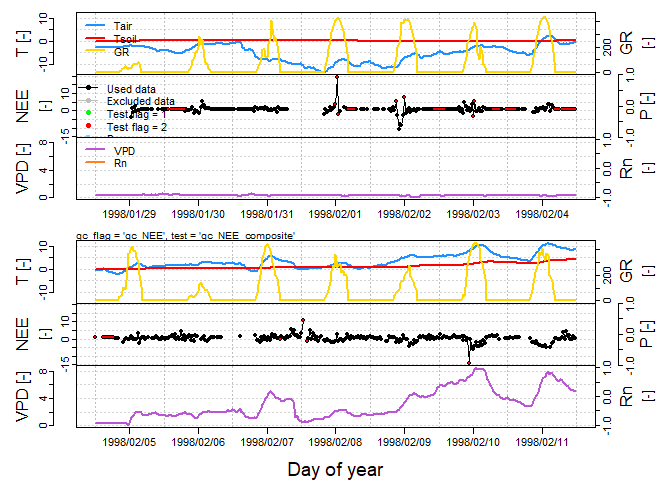
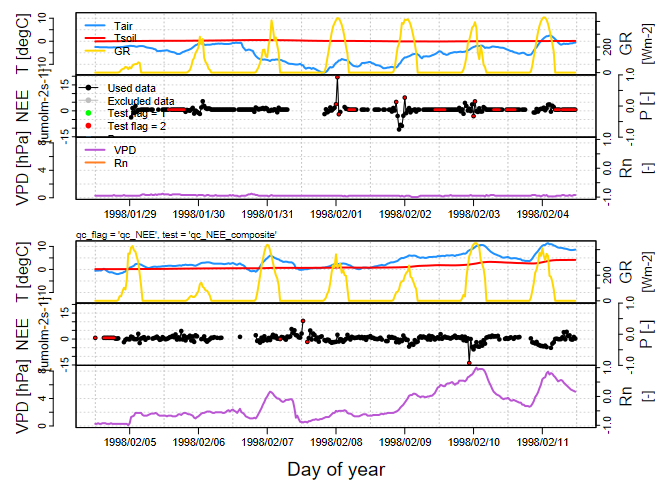
correct and update README

diff --git a/README.md b/README.md
@@ -59,9 +59,6 @@ library(openeddy)
 #> The following objects are masked from 'package:base':
 #> 
 #>     units, units<-
-```
-
-``` r
 library(REddyProc)
 library(ggplot2)
 ```
@@ -71,7 +68,7 @@ extracted from raw data or quality control (QC) flags. Notice that units
 are included.
 
 ``` r
-data(Example_DETha98)
+data(Example_DETha98, package = "REddyProc")
 str(Example_DETha98[1:4])
 #> 'data.frame':    17520 obs. of  4 variables:
 #>  $ Year: int  1998 1998 1998 1998 1998 1998 1998 1998 1998 1998 ...
@@ -86,9 +83,6 @@ str(Example_DETha98[1:4])
 #>  $ NEE : num  -1.21 1.72 NA NA 2.55 NA NA NA 4.11 NA ...
 #>   ..- attr(*, "varnames")= chr "NEE"
 #>   ..- attr(*, "units")= chr "umolm-2s-1"
-```
-
-``` r
 DETha98 <- fConvertTimeToPosix(Example_DETha98, 'YDH', 
                                Year = 'Year', Day = 'DoY', Hour = 'Hour')
 #> Converted time format 'YDH' to POSIX with column name 'DateTime'.
@@ -109,16 +103,18 @@ DETha98$qc_NEE <- ifelse(is.na(DETha98$NEE), NA, 0)
 Application of three general filters is presented.
 
 1.  Low covariance between vertical wind component and CO<sub>2</sub>
-    concentration ((CO<sub>2</sub>)) can be caused by frozen ultrasonic
+    concentration (CO<sub>2</sub>) can be caused by frozen ultrasonic
     anemometer or problems with (CO<sub>2</sub>) measurements. Such
-    cases are flagged and saved to qc_NEE_lowcov.
+    cases are flagged and saved to `qc_NEE_lowcov` filter.
 2.  Runs with repeating values are a sign of malfunctioning equipment
-    (qc_NEE_runs).
-3.  Spikes in low frequency data cause problems during gap-filling and
-    should be excluded. Since DETha98 was already quality checked, the
-    amount of detected spikes is limited. In order to correctly evaluate
-    spikes, preliminary QC (qc_NEE_prelim) that combines available QC
-    tests or filters should be produced and used in `despikeLF`.
+    (`qc_NEE_runs`).
+3.  Spikes in low frequency data (`qc_NEE_spikesLF`) cause problems
+    during gap-filling and should be excluded. Since DETha98 was already
+    quality checked, the amount of detected spikes is limited. In order
+    to correctly evaluate spikes, preliminary QC (`qc_NEE_prelim`) that
+    combines available QC tests or filters should be produced and used
+    in `despikeLF()`. For simplification, daytime is not distinguished
+    from nighttime here (`despikeLF(..., light = NULL)`).
 
 ``` r
 DETha98$qc_NEE_lowcov <- 
@@ -128,27 +124,18 @@ summary_QC(DETha98, "qc_NEE_lowcov")
 #>                QC_flag
 #> QC_filter       flag_0 flag_2 flag_NA
 #>   qc_NEE_lowcov   64.2    0.1    35.7
-```
-
-``` r
 DETha98$qc_NEE_runs <- flag_runs(DETha98$NEE, "qc_NEE_runs")
 summary_QC(DETha98, "qc_NEE_runs")
 #> no columns with 'na.as = 0' detected
 #>              QC_flag
 #> QC_filter     flag_0 flag_2 flag_NA
 #>   qc_NEE_runs   63.9    0.3    35.7
-```
-
-``` r
 DETha98$qc_NEE_prelim <- 
   combn_QC(DETha98, 
            c("qc_NEE", "qc_NEE_lowcov", "qc_NEE_runs"), 
            "qc_NEE_prelim")
 #> no columns with additive effect detected
 #> no columns with 'na.as = 0' detected
-```
-
-``` r
 DETha98$qc_NEE_spikesLF <- 
   despikeLF(DETha98, "NEE", "qc_NEE_prelim", "qc_NEE_spikesLF", 
             light = NULL)
@@ -156,9 +143,6 @@ DETha98$qc_NEE_spikesLF <-
 #> iter 2: 2
 #> iter 3: 0
 #> Further iterations omitted
-```
-
-``` r
 summary_QC(DETha98, "qc_NEE_spikesLF")
 #> detected columns with 'na.as = 0': qc_NEE_spikesLF
 #>                  QC_flag
@@ -167,7 +151,7 @@ summary_QC(DETha98, "qc_NEE_spikesLF")
 ```
 
 The QC results can be summarized in tabular or graphical form using
-`summary_QC`. It is possible to summarize each filter independently or
+`summary_QC()`. It is possible to summarize each filter independently or
 summarize the cumulative effect of applied filters. Note that the
 fraction of flagged records in this example is negligible as DETha98
 data set was already quality checked.
@@ -182,9 +166,6 @@ summary_QC(DETha98,
 #>   qc_NEE_lowcov     64.2    0.1    35.7
 #>   qc_NEE_runs       63.9    0.3    35.7
 #>   qc_NEE_spikesLF   99.8    0.2     0.0
-```
-
-``` r
 summary_QC(DETha98, 
            c("qc_NEE", "qc_NEE_lowcov", "qc_NEE_runs", "qc_NEE_spikesLF"),
            cumul = TRUE, plot = TRUE, flux = "NEE")
@@ -196,7 +177,7 @@ summary_QC(DETha98,
 
 Although individual QC columns should be stored as they are useful to
 distinguish the reason why certain records were excluded, only the
-combined QC column (qc_NEE_composite) is usually used in further data
+combined QC column (`qc_NEE_composite`) is usually used in further data
 processing and analysis.
 
 ``` r
@@ -208,46 +189,28 @@ DETha98$qc_NEE_composite <-
 #> detected columns with 'na.as = 0': qc_NEE_spikesLF
 ```
 
-Function `plot_eddy` is useful for visualization of the whole dataset
+Function `plot_eddy()` is useful for visualization of the whole dataset
 including flux values, its respective QC flags and the most important
-micrometeorological parameters in monthly and weekly time resolution.
-Only a two week subset is presented here to limit the extent of output.
-
-``` r
-DETha98[, c("P", "PAR", "Rn")] <- NA
-(varnames <- varnames(DETha98))
-#>  [1] "DateTime"         "Year"             "DoY"              "Hour"            
-#>  [5] "NEE"              "LE"               "H"                "Rg"              
-#>  [9] "Tair"             "Tsoil"            "rH"               "VPD"             
-#> [13] "Ustar"            "-"                "qc_NEE_lowcov"    "qc_NEE_runs"     
-#> [17] "qc_NEE_prelim"    "qc_NEE_spikesLF"  "qc_NEE_composite" "-"               
-#> [21] "-"                "-"
-```
-
-``` r
-(units <- openeddy::units(DETha98))
-#>  [1] "POSIXDate Time" "-"              "-"              "-"             
-#>  [5] "umolm-2s-1"     "Wm-2"           "Wm-2"           "Wm-2"          
-#>  [9] "degC"           "degC"           "%"              "hPa"           
-#> [13] "ms-1"           "-"              "-"              "-"             
-#> [17] "-"              "-"              "-"              "-"             
-#> [21] "-"              "-"
-```
+meteorological parameters in monthly and weekly time resolution. Only a
+two week subset is presented here to limit the extent of output.
 
 ``` r
 sub <- DETha98$DoY >= 29 & DETha98$DoY < 43
-DETha98_sub <- DETha98[sub, ]
-openeddy::units(DETha98) <- units
-plot_eddy(DETha98_sub, "NEE", "qc_NEE", "qc_NEE_composite", skip = "monthly",
-          light = "GR")
+DETha98_sub <- ex(DETha98, sub)
+plot_eddy(DETha98_sub, "NEE", "qc_NEE", "qc_NEE_composite", 
+          skip = "monthly", light = "GR")
+#> Column 'Rn' not found in 'x'
+#> Respective column 'Rn' initialized with NA values
+#> Column 'P' not found in 'x'
+#> Respective column 'P' initialized with NA values
 ```
 
 <img src="man/figures/README-unnamed-chunk-8-1.png" width="100%" />
 
-In addition to actual despiking, `despikeLF` can be used also for
+In addition to actual despiking, `despikeLF()` can be used also for
 visualization of the internally computed double-differenced time series
 in order to inspect selected 13 days blocks. See section Plotting in
-`despikeLF` help file for further description.
+`despikeLF()` help file for further description.
 
 ``` r
 despikeLF_plots <- 
@@ -257,9 +220,6 @@ despikeLF_plots <-
 #> iter 2: 2
 #> iter 3: 0
 #> Further iterations omitted
-```
-
-``` r
 despikeLF_plots$`iter 1`$all$`1998-01-27 - 1998-02-08`
 ```
 

diff --git a/NEWS.md b/NEWS.md
@@ -6,7 +6,7 @@
 -   fix bug: NA instead of 9 in extract_coded() for "attangle" and
     "nonsteady"
 -   check_manually() now displays also two additional meteo variables
-    (requested by Milan and useful when deciding about outliers)
+    (useful when deciding about outliers)
 -   apply_QC() was added: removes flux values with QC flag = 2
 -   agg_fun() added: you can use arbitrary function for data
     aggregations (e.g. extracting daily temperature minimum, maximum,
